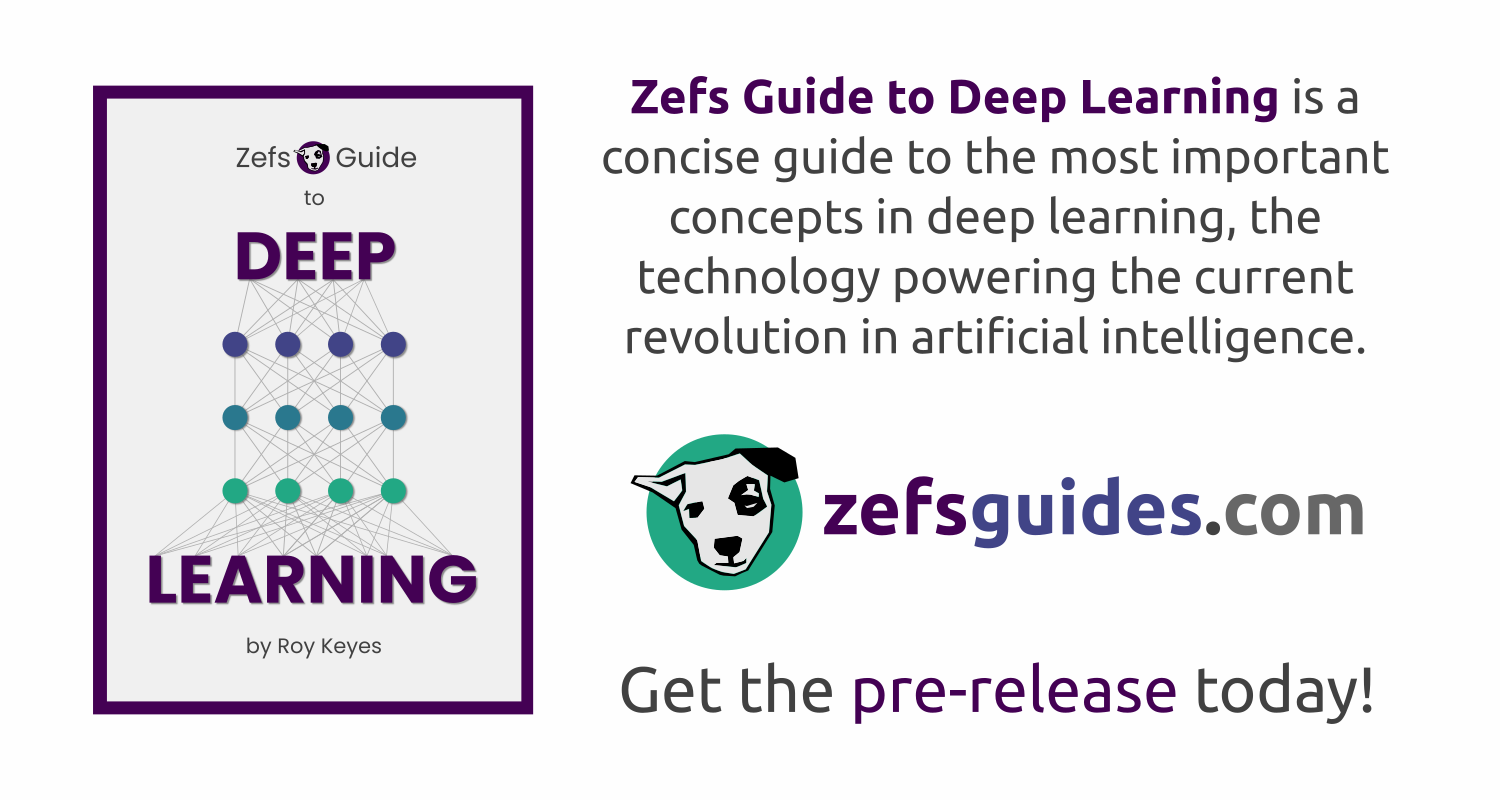
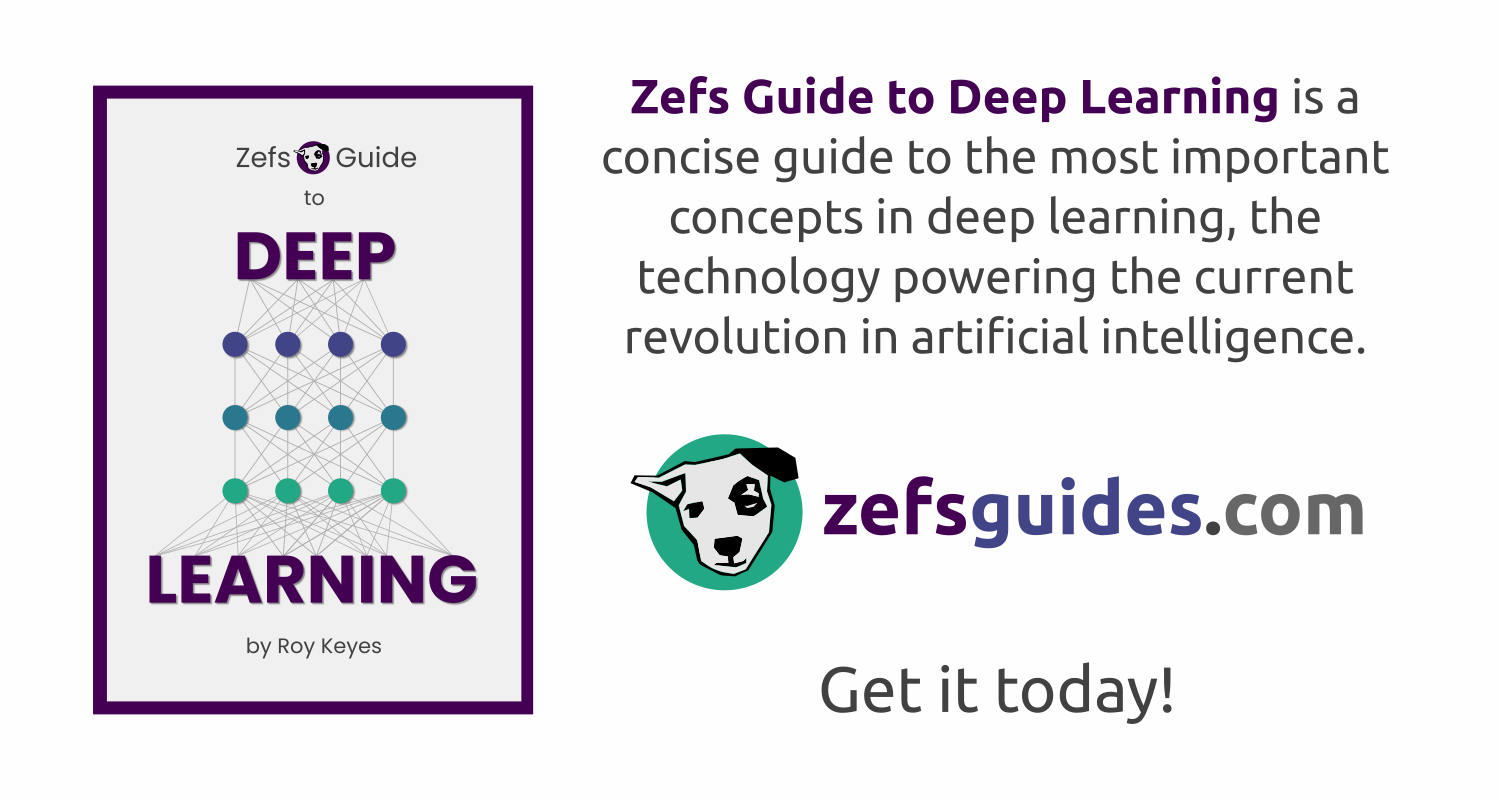
Updated ZG2DL info

Changed region(s): [[0.3987, 0.8125, 0.92, 0.9062]]

diff --git a/index.html b/index.html
@@ -130,9 +130,10 @@
         the <a href="https://www.meetup.com/Houston-Data-Analytics-Meetup/">Houston Data Analytics</a> Meetup group and
         the founder of <a href="https://zefsdata.com">Zefs Data Science</a>, where I do occasional consulting work
         related to data science and machine learning strategy and team planning.</p>
-      <p>I am the author of the upcoming series <a href="https://zefsguides.com">Zefs Guides</a>, a series of little
+      <p>I am the author of the in-progress series <a href="https://zefsguides.com">Zefs Guides</a>, a series of little
         guides to machine learning and data science topics. The first book in the series, Zefs Guide to Deep Learning,
-        is <a href="https://zefsguides.com">available now</a> to purchase as an "early access", pre-release.</p>
+        is <a href="https://zefsguides.com">available now</a> in paperback and ebook formats, as well as accompanying
+        digital flashcards.</p>
       <p><a href="https://zefsguides.com"><img src="data/images/zg_dl_ad.png"></a></p>
       <p>I'm also the author of <a href="https://dshiring.com">Hiring Data Scientists and Machine Learning Engineers: A
           Practical Guide</a>, a book I wrote drawing on my experience building data science and machine learning teams,
